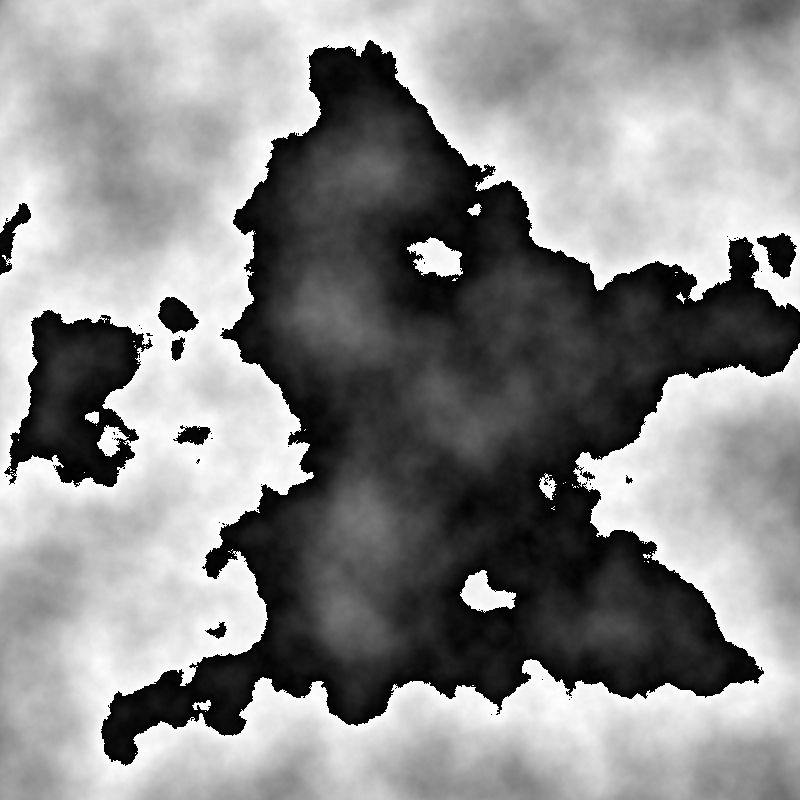
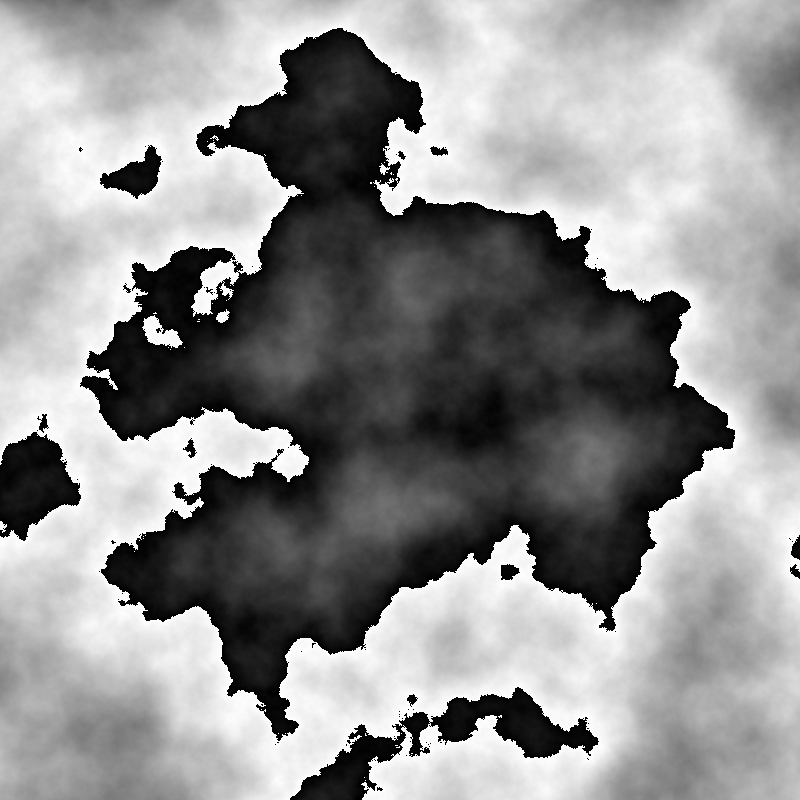
Arreglado errores pathfinding y actualizado map generator

diff --git a/IslandGenerator/src/OpenSimplexNoiseTest.java b/IslandGenerator/src/OpenSimplexNoiseTest.java
@@ -103,7 +103,7 @@ public class OpenSimplexNoiseTest extends Canvas implements Runnable
         frame.setFocusable(false);
 		frame.requestFocus();
 		generateMap();
-		placeTile();
+		//placeTile();
 		start();
 	
 	
